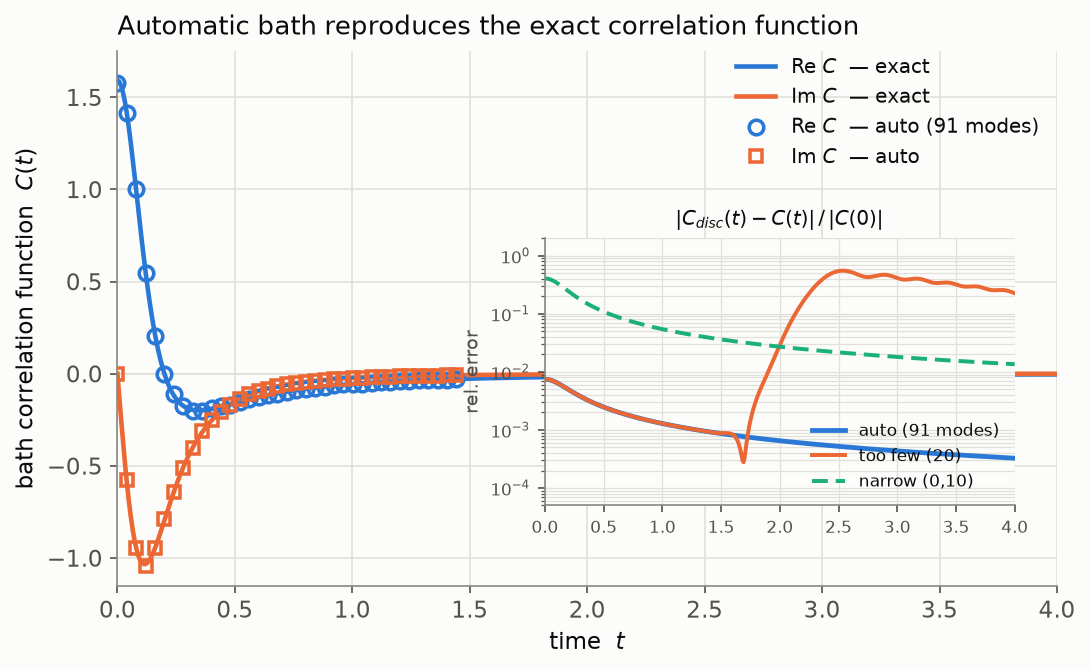
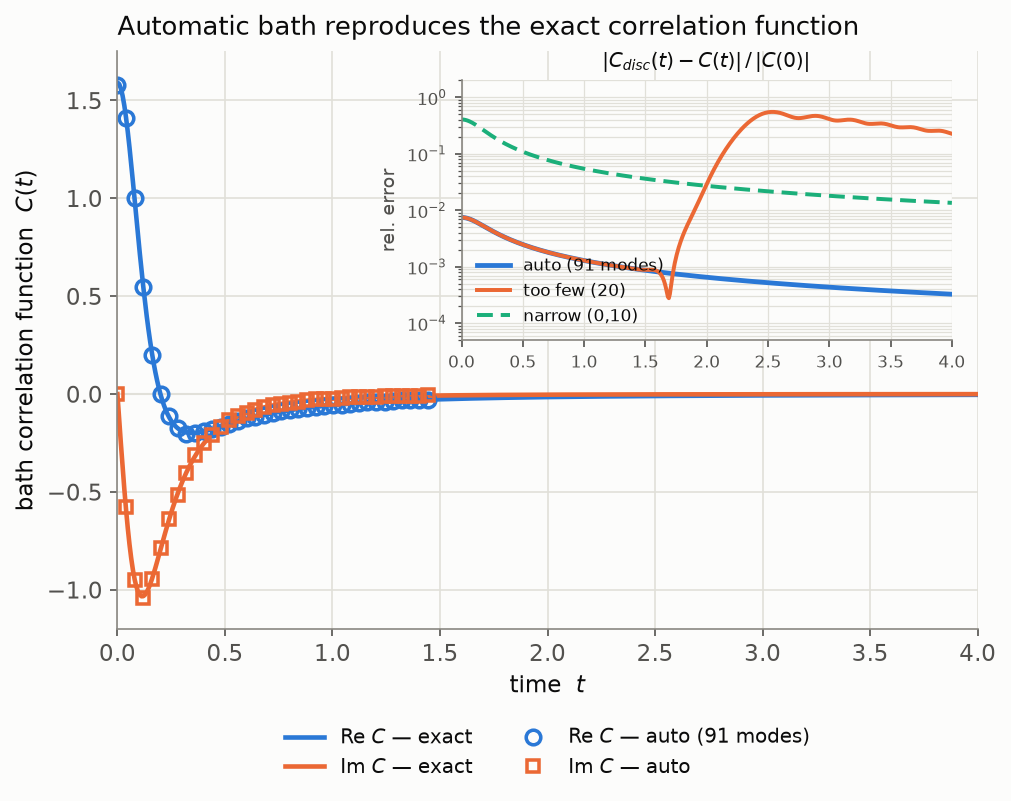
Docs: reposition C(t) inset off the data and add a finite-temperature comparison

diff --git a/docs/bath.md b/docs/bath.md
@@ -118,6 +118,25 @@ So the reorganization-energy window and the light-cone mode count are each doing
 real work: drop either and the bath correlation function is wrong by tens of
 percent; keep both and it is faithful for the entire propagation.
 
+The same holds at **finite temperature**.  There the correlation function carries
+the detailed-balance factor,
+$C(t) = \tfrac{1}{\pi}\int_0^\infty d\omega\, J(\omega)[\coth(\tfrac{\beta\omega}{2})
+\cos\omega t - i\sin\omega t]$, and the automatic bath uses a **signed** domain
+(thermofield / T-TEDOPA) with more modes to cover both frequency halves — for
+$k_B T = 1$ here, $(-34.9, 34.9)$ and 156 modes.  It reproduces the thermal $C(t)$
+just as faithfully (peak error $7 \times 10^{-3}$), while too few modes or too
+narrow a domain fail in the same way:
+
+```{figure} img/bath_correlation_finiteT.png
+:alt: Finite-temperature bath correlation function; the auto thermofield bath (156 modes on a signed domain) lands on the exact thermal C(t), with an inset showing the relative error stays ~1e-3 while too-few-modes and too-narrow-domain discretizations rise toward 1.
+:width: 100%
+
+Finite temperature ($k_B T = 1$).  The automatic thermofield bath (156 modes on
+the signed domain, markers) reproduces the thermal correlation function (lines);
+the inset shows the same separation between the faithful automatic choice and the
+degraded discretizations.
+```
+
 ## TEDOPA: discretization then chain mapping
 
 `fishbonett` uses the TEDOPA construction (Chin *et al.* 2010; Prior *et al.*
